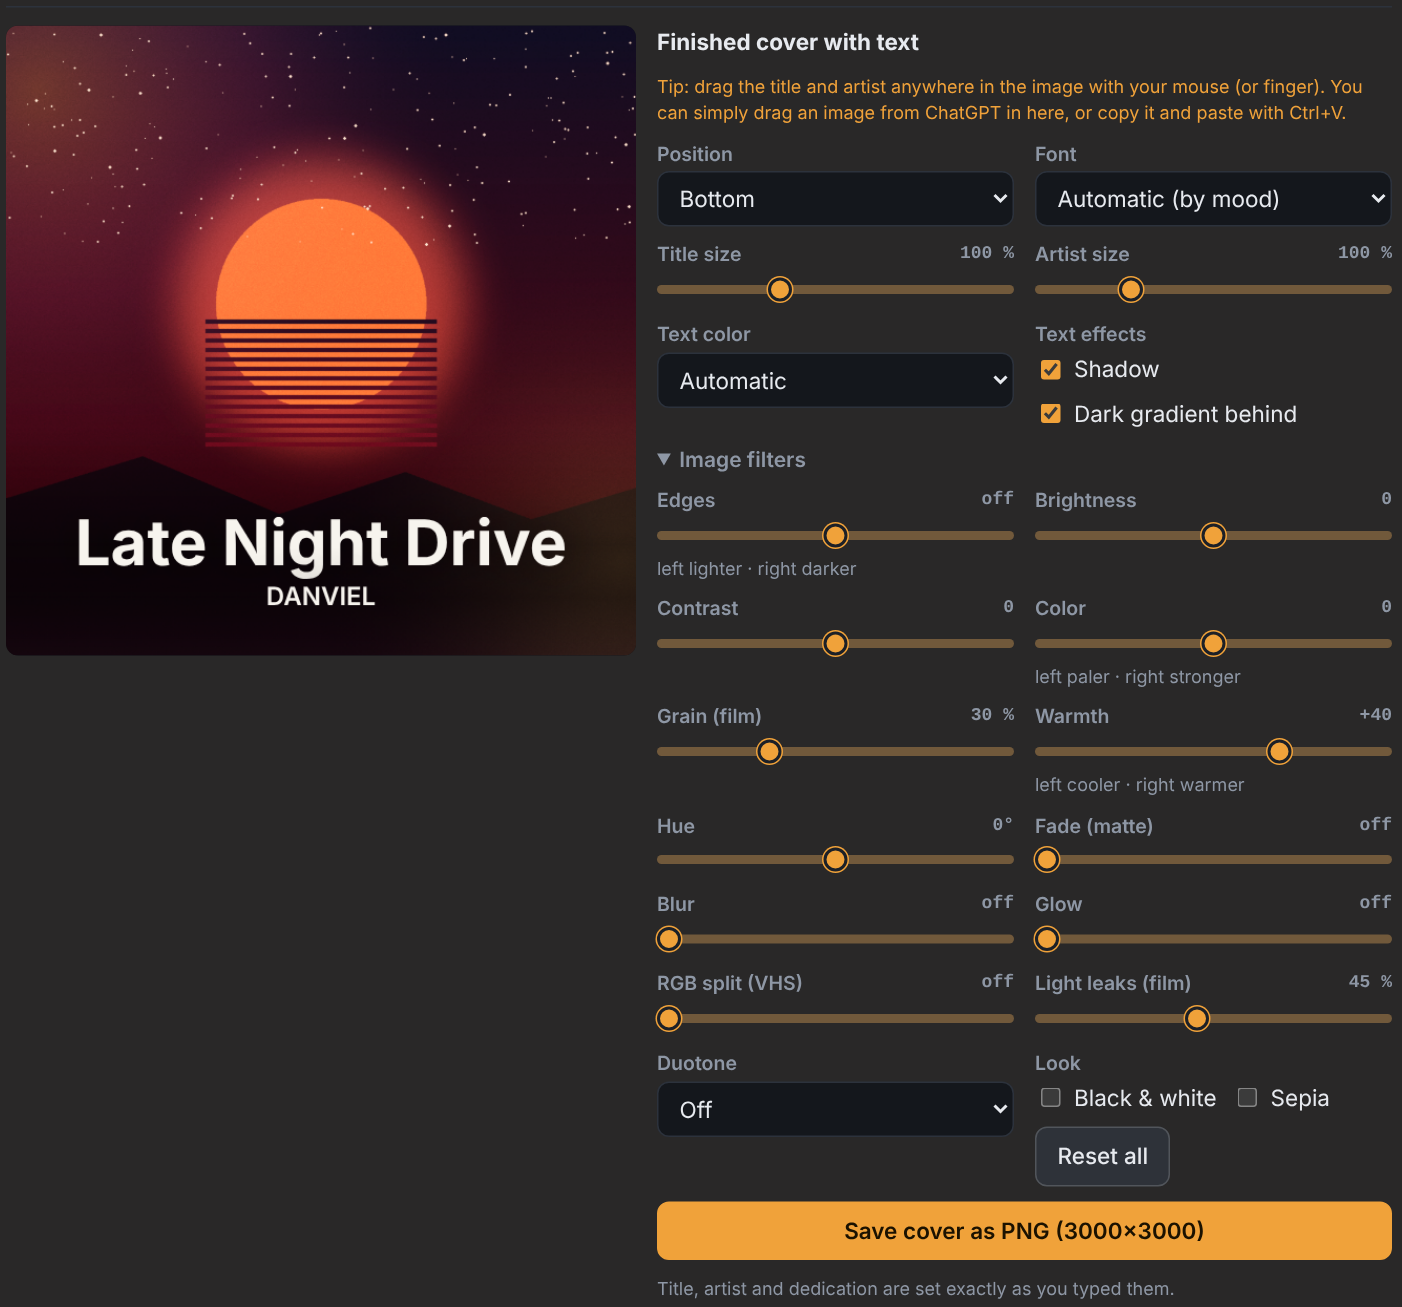
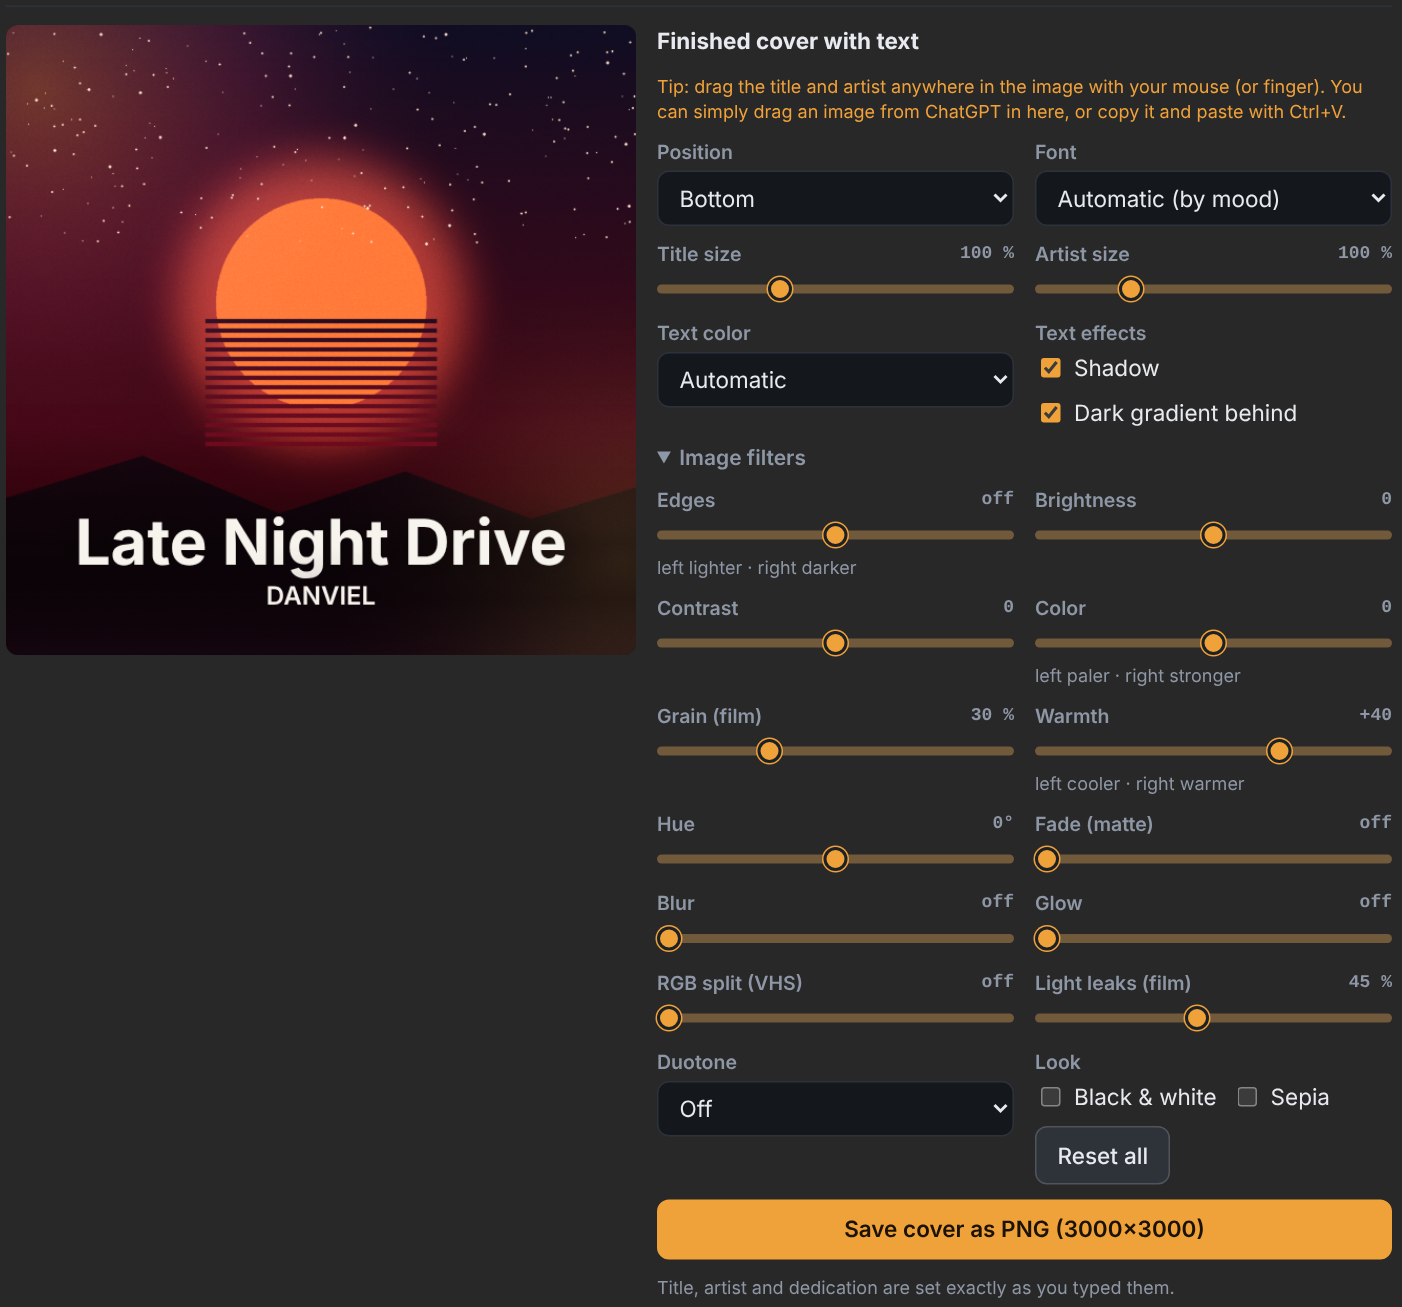
README: v15 news (recording, Suno archive), coming soon (Pro), new screenshots

diff --git a/README.md b/README.md
@@ -14,6 +14,19 @@
 |---|---|
 | [![Video and lyrics](screenshot-video.png)](https://0zoon.github.io/danviel-studio/) | [![Cover studio](screenshot-cover.png)](https://0zoon.github.io/danviel-studio/) |
 
+## 🆕 New in v15
+- **🎙 Record right in the studio:** sing or rap over your beat with your microphone. Every take becomes its own track that you can mix, nudge and delete. No beat loaded? Just record and build your song from scratch.
+
+  [![Recording over a beat](screenshot-record.png)](https://0zoon.github.io/danviel-studio/)
+- **Suno archive:** connect the folder of your Suno archive (`<Title>.txt` + `<Title> - Lyrics.txt`) once, and every song you load gets its title, clean lyrics and genre automatically. The Suno prompt goes into the release package too.
+- **One click vibes:** 🐢 Slowed + Reverb, ⚡ Sped Up, 🌙 Nightcore, key up/down in semitones
+- **🔊 Bass Boosted**, rename tracks, ⚙ Pro view with every control open, new demos (Pop, R&B, Trap, House)
+
+## 💎 Coming soon
+- **DANVIEL Studio Pro:** a desktop app for Windows with a bit more power (faster AI, 6 stems with guitar and piano, batch export) and a **Suno browser extension** that sends stems, lyrics and style straight into the studio. One purchase, no subscription. [More info](https://0zoon.github.io/danviel-studio/pro.html)
+- **Everything in the browser version stays free.** Pro is mainly a way to support the project.
+- More visualizer styles, fonts and video looks
+
 ## Features
 - **Mix stems:** vocals, beat, bass … switch each on/off, volume, panning, EQ, compressor, de-esser, reverb, delay
 - **Suno-ready:** drop the whole Suno ZIP. When a stem comes as WAV, MP3 and MIDI, the WAV is used, and the MIDI stems are played by a built-in synth (piano, pad, bass, 808, drums …) that you can layer in
@@ -56,4 +69,4 @@ Kostenloses Musik-Studio im Browser: Stems mixen, mastern, Videos und Cover mach
 ## License
 © 2026 DANVIEL. All rights reserved. DANVIEL Studio is free to use, and everything you create with it belongs to you. Copying, rebranding, redistributing or selling the code is not permitted without permission. See [LICENSE](LICENSE) and [third-party notices](THIRD_PARTY_NOTICES.md).
 
-Made by **DANVIEL**
+Made by **DANVIEL** · Follow the repo (⭐ / Watch) to get notified about Pro and new versions.
